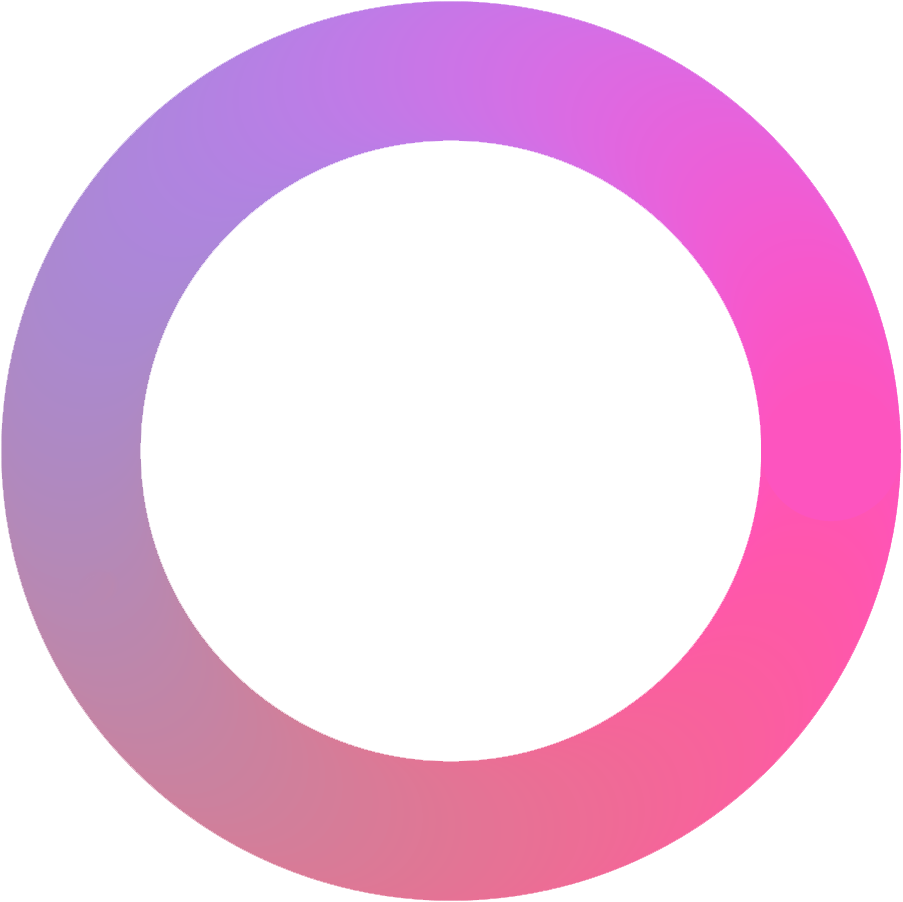
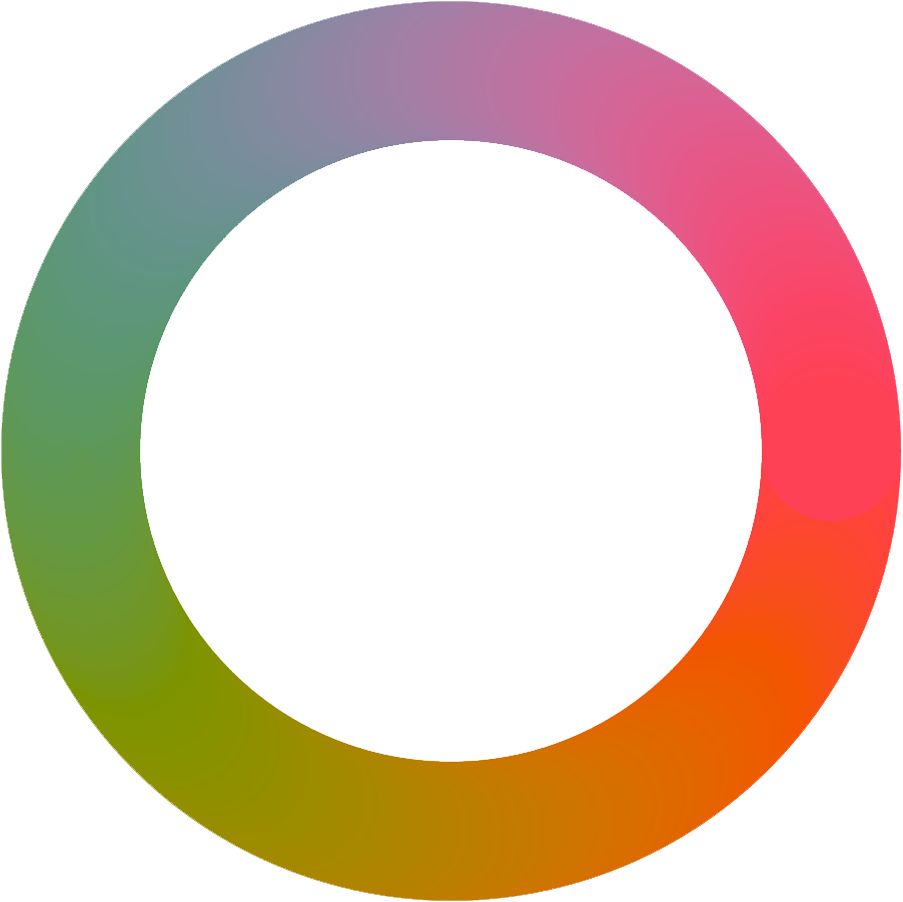
23g4

diff --git a/mturk/InterGroup_Spatial_files/InterGroupLTM_v101.html b/mturk/InterGroup_Spatial_files/InterGroupLTM_v101.html
@@ -60,13 +60,13 @@
 </div>
 
 <div id="instructions4" style="display:none"><center>
-<p>Performing well in this HIT is much, much easier if your monitor is well-lit and adjusted for our range of pink-purple colors. Below is an example color wheel. Please adjust the brightness/color settings of your monitor to best view the below color spectrum.</p></center>
+<p>Performing well in this HIT is much, much easier if your monitor is well-lit and adjusted for our range of colors. Below is an example color wheel. Please adjust the brightness/color settings of your monitor to best view the below color spectrum.</p></center>
 
 <p align="center"><img src="https://paulscotti.github.io/mturk/InterGroup_Spatial_files/fullColorWheel.png" width="400px"></p>
 
-<p>As an example, you should be able to easily tell that these two squares are distinct colors. If not, please further adjust your monitor's settings.</p>
+<p>As an example, you should be able to tell that these two squares are distinct colors. If not, please further adjust your monitor's settings.</p>
 
-<p align="center"><img src="https://paulscotti.github.io/mturk/InterGroup_Spatial_files/color_compare2.png"></p>
+<p align="center"><img src="https://paulscotti.github.io/mturk/color_compare.png"></p>
 
 <br><p style="text-align: center"><a href="javascript:void(0);" onclick="$('#instructions4').hide();$('#instructions5').show();$('a#TextButton').hide();document.body.scrollTop = document.documentElement.scrollTop = 0;" id="TextButton">Next (4 of 5)</a></p>
 </div>
@@ -80,7 +80,7 @@
 
 <p><strong>To start off with, we'll give you a few practice trials</strong>. During practice, you will see two colored objects at a time. Remember to memorize the colors associated with each object. You will then be asked to report the original color of one of the objects. Please take your time to respond as accurately as possible. The hour time estimate assumes a patient worker who takes their time for every reponse!</p>
 
-<p style="text-align: center"><a href="javascript:void(0);" onclick="$('#instructions5').hide();$('a#TextButton').hide();StartExperiment();document.body.scrollTop = document.documentElement.scrollTop = 0;" id="TextButton">Start Experiment</a></p>
+<p style="text-align: center"><a href="javascript:void(0);" onclick="$('#instructions5').hide();StartExperiment();document.body.scrollTop = document.documentElement.scrollTop = 0;" id="TextButton">Start Experiment</a></p>
 <center><p id=loading>Images loading... Please wait.</p>
 </div>
 
@@ -656,11 +656,11 @@ function ShowContinuousReport(trialStruct) {
       }
 
       if (survey == 1) {
-        flip == 0? curError = Math.abs(wrap([imgNum-seed[0]])) : curError = Math.abs(wrap([wrap([180-imgNum])-seed[0]]));
+        // flip == 0? curError = Math.abs(wrap([imgNum-seed[0]])) : curError = Math.abs(wrap([wrap([180-imgNum])-seed[0]]));
       } else {
         // if (left_or_right == 1) {
-        flip == 0? curError = Math.abs(wrap([imgNum-trialStruct.itemT_col])) : curError = Math.abs(wrap([imgNum-trialStruct.itemT_col]));
-        flip == 0? ang1 = wrap(imgNum) : ang1 = wrap(180-imgNum);
+        curError = Math.abs(wrap([imgNum-trialStruct.itemT_col]));
+        flip = 0 ? ang1 = wrap(imgNum) : ang1 = wrap(imgNum+180);
         // } else {
         //   flip == 0? curError = Math.abs(wrap([imgNum-trialStruct.itemB])) : curError = Math.abs(wrap([wrap([180-imgNum])-trialStruct.itemB]));
         // }
@@ -993,11 +993,11 @@ function ShowConfidence2 (trialStruct,angleDeg,angleDeg2,diffAng2,lastRot) {
         }
         highlightedColors = wrap(highlightedColors);
 
-        if (flip == 0) {
-          if (highlightedColors.includes(wrap(trialStruct.itemT_col))) { encap = 1 }
+        howdy = trialStruct.itemT_col;
+        if (true) {
+          if (highlightedColors.includes(wrap(howdy))) { encap = 1 }
         } else {
-          highlightedColors2 = wrap(highlightedColors + 180);
-          if (highlightedColors2.includes(wrap(trialStruct.itemT_col))) { encap = 1 }
+          if (highlightedColors.includes(wrap(howdy+180))) { encap = 1 }
         }
         if (angleDeg2 == angleDeg3 & curError != 0) { encap = 0 }
 
@@ -1030,7 +1030,7 @@ function ShowConfidence2 (trialStruct,angleDeg,angleDeg2,diffAng2,lastRot) {
         trialStruct.conf3 = diffAng3;
 
         if (trialStruct.isPractice) {
-            $('#feedbackError').html("Your error was: " + Math.round(curError) + " deg (aim for less than 50 deg.!)<br><br>Click to continue.");
+            $('#feedbackError').html("Your error was: " + Math.round(curError) + " deg (aim for less than 30 deg.!)<br><br>Click to continue.");
 
             imgNum = Math.round(wrap([angleDeg-randrotate]));
             start(ctx3,imgNum,80,100, 200, 200, flip, imgA, itemA);
@@ -1148,7 +1148,7 @@ function ShowConfidence2 (trialStruct,angleDeg,angleDeg2,diffAng2,lastRot) {
       trialStruct.conf3 = diffAng3;
 
       if (trialStruct.isPractice) {
-          $('#feedbackError').html("Your error was: " + Math.round(curError) + " deg (aim for less than 50 deg.!)<br><br>Click to continue.");
+          $('#feedbackError').html("Your error was: " + Math.round(curError) + " deg (aim for less than 30 deg.!)<br><br>Click to continue.");
 
           imgNum = Math.round(wrap([angleDeg-randrotate]));
           start(ctx3,imgNum,80,100, 200, 200, flip, imgA, itemA);
